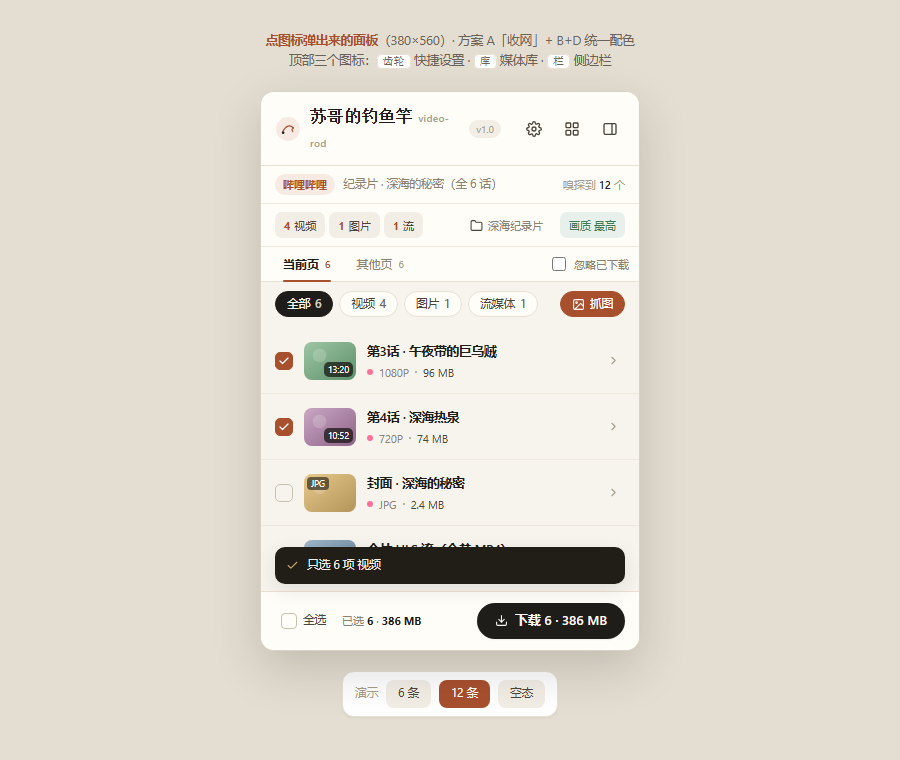
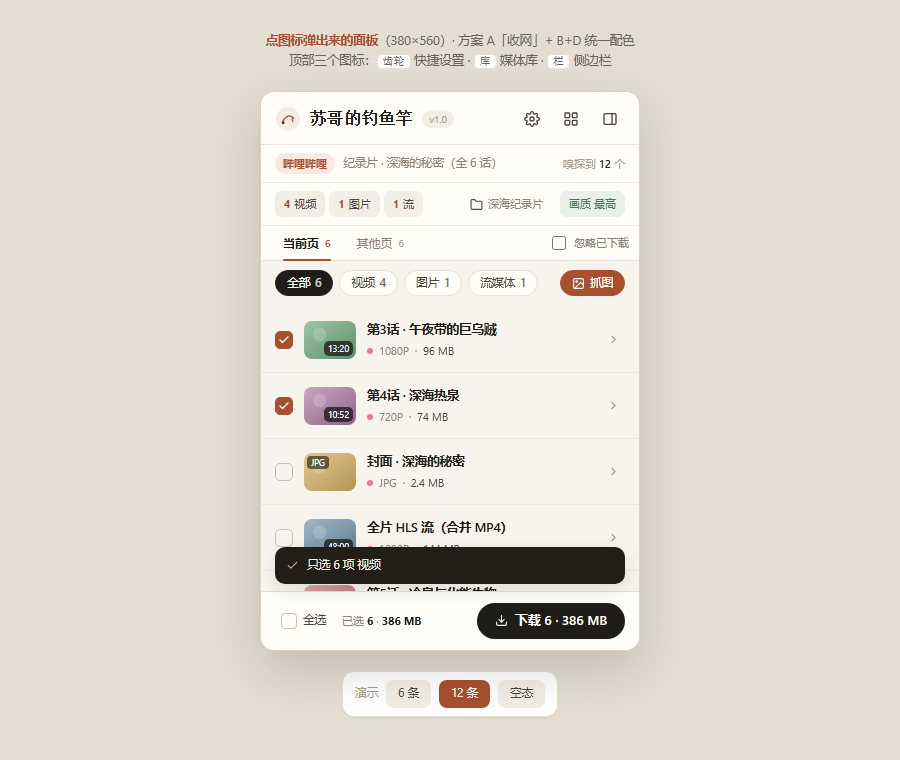
design: 项目名统一为「苏哥的钓鱼竿」（原型层）+ 真实代码改名登记 D-05
- 4 份原型品牌名统一：资源库 钓鱼竿→苏哥的钓鱼竿；popup/页面侧 去掉 video-rod 英文副标题；标题栏同步
- 保留不动：下载路径 F://download//video-rod、GPL 强制署名「基于猫抓 cat-catch · GPL-3.0」
- 真实代码待改（D-05/B-7）：popup.html 副标题、语言包 6 处「猫抓 XXX」窗口标题
- CDP 回归：popup 14/14、三原型品牌名实测=苏哥的钓鱼竿、0 JS 错误

diff --git a/deliverables/prototypes/popup-redesign-v3-bd.html b/deliverables/prototypes/popup-redesign-v3-bd.html
@@ -3,7 +3,7 @@
 <head>
 <meta charset="utf-8">
 <meta name="viewport" content="width=device-width, initial-scale=1">
-<title>苏哥的钓鱼竿 video-rod — popup 入口层原型 v3（B+D 统一）</title>
+<title>苏哥的钓鱼竿 — popup 入口层原型 v3（B+D 统一）</title>
 <style>
 /* ============================================================
    popup 入口层 · 方案A「收网」+ B+D 定稿配色
@@ -209,7 +209,7 @@ svg{display:block}
       <path d="M34 22l-3 3 2 4" stroke="#A8502E" stroke-width="2" stroke-linecap="round" stroke-linejoin="round" fill="none"/>
       <circle cx="15" cy="31" r="2.4" fill="#1F1D1A"/>
     </svg>
-    <div class="pop-title">苏哥的钓鱼竿<small>video-rod</small></div>
+    <div class="pop-title">苏哥的钓鱼竿</div>
     <span class="ver" id="vrVer">v1.0</span>
     <span class="sp"></span>
     <button class="iconbtn" id="btnSettings" title="设置">

diff --git a/deliverables/prototypes/page-ui-prototype-v1.html b/deliverables/prototypes/page-ui-prototype-v1.html
@@ -3,7 +3,7 @@
 <head>
 <meta charset="utf-8">
 <meta name="viewport" content="width=device-width, initial-scale=1">
-<title>苏哥的钓鱼竿 video-rod — 页面侧 UI 原型 v1</title>
+<title>苏哥的钓鱼竿 — 页面侧 UI 原型 v1</title>
 <style>
 /* ============================================================
    页面侧 UI 原型 · 7 平台场景
@@ -305,7 +305,7 @@ svg{display:block}
 <div class="topbar">
   <div class="inner">
     <div class="row1">
-      <div class="brand">苏哥的钓鱼竿 <b>video-rod</b></div>
+      <div class="brand">苏哥的钓鱼竿</div>
       <span class="badge">页面侧 UI 原型 v1</span>
       <span class="note">这些是注入到「别人网页」上的按钮/浮标/面板 · 点顶部切换平台场景</span>
     </div>

diff --git a/deliverables/prototypes/media-library-redesign-v1.html b/deliverables/prototypes/media-library-redesign-v1.html
@@ -3,7 +3,7 @@
 <head>
 <meta charset="utf-8">
 <meta name="viewport" content="width=device-width, initial-scale=1">
-<title>钓鱼竿 · 媒体库 · 重设计原型 v1</title>
+<title>苏哥的钓鱼竿 · 媒体库 · 重设计原型 v1</title>
 <style>
 /* ============================================================
    Video Rod Media Library — Redesign Prototype v1
@@ -2029,7 +2029,7 @@ html[data-theme="dark"] .favpop{background:#12141A;border-color:#1F232B}
     <div class="brand">
       <div class="logo"><svg class="i"><use href="#i-anchor"/></svg></div>
       <div class="brand-txt">
-        <div class="brand-name">钓鱼竿</div>
+        <div class="brand-name">苏哥的钓鱼竿</div>
         <div class="brand-sub">Media Library</div>
       </div>
     </div>

diff --git a/docs/BACKLOG.md b/docs/BACKLOG.md
@@ -64,6 +64,7 @@
 | D-02 | 拆巨型文件 | `js/m3u8.js` 2446 行、`js/background.js` 2523 行 | **先补回归测试再拆**；OmniGet 的六文件拆分可作参考，不是现在做 |
 | D-03 | 可编辑捕获规则 | 未做，现在匹配逻辑硬编码在 background | 属新功能，不插队；若做必须配「命中日志」 |
 | D-04 | 下载任务快照 + 改参数重试 | 未做，M9 历史面板已覆盖大半 | 属 UX 增强，不插队 |
+| D-05 | **项目名统一为「苏哥的钓鱼竿」（真实代码）** | 扩展名/资源库标题已是；但 popup.html:6/:43 还带 `video-rod` 副标题，语言包 messages.json 有 6 处「猫抓 设置/下载器/M3U8解析器/json格式化/dash解析器/始终不启用猫抓下载器」窗口标题未改 | 改上述可见名；**保留**下载路径 `video-rod` 与 GPL 署名「基于猫抓 fork」。原型层已统一（4 份原型 + 资源库品牌名） |
 
 ---
 
